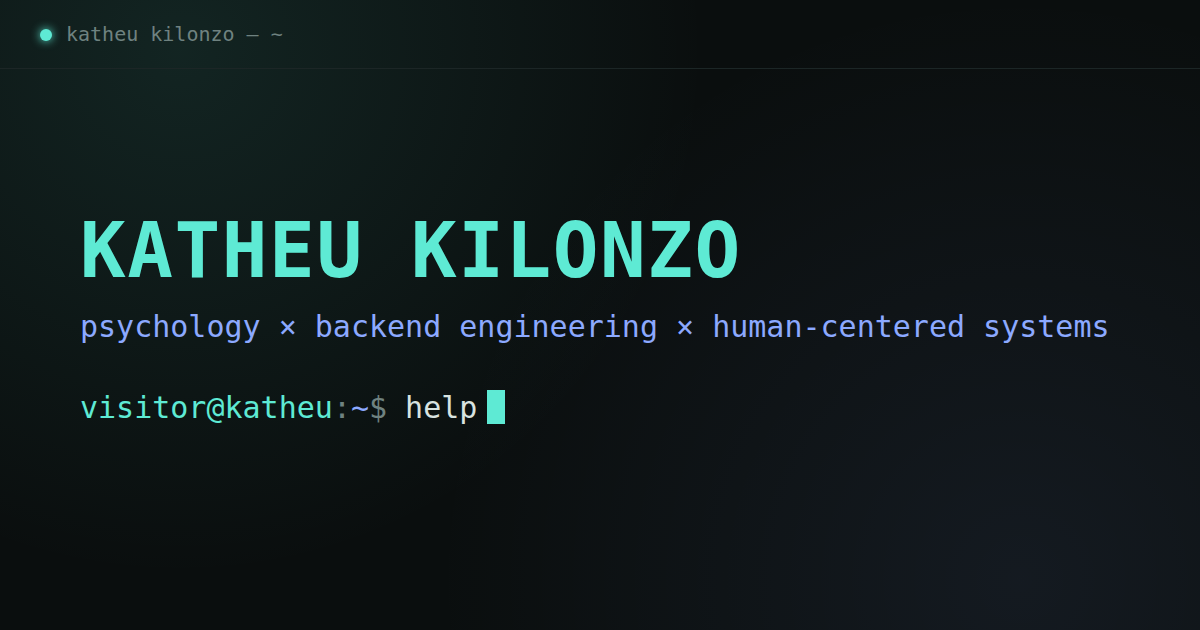
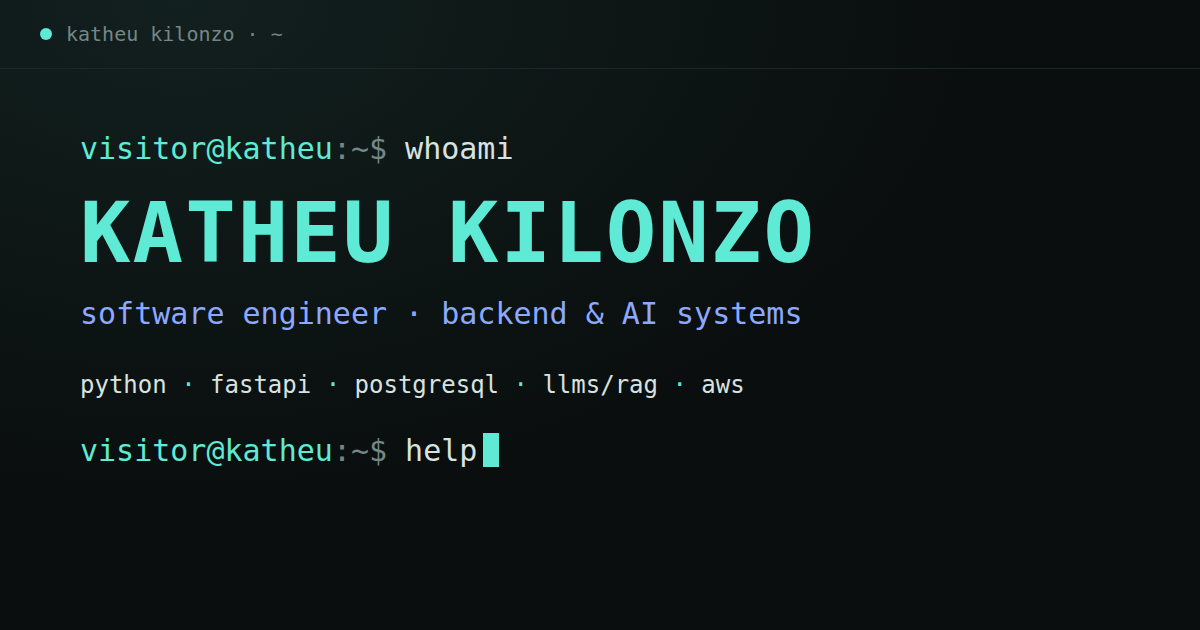
Redraw the link preview image as a whoami session with the LinkedIn role and stack
Fixes #255

diff --git a/index.html b/index.html
@@ -21,7 +21,7 @@
     <meta property="og:image:type" content="image/png" />
     <meta property="og:image:width" content="1200" />
     <meta property="og:image:height" content="630" />
-    <meta property="og:image:alt" content="Katheu Kilonzo: psychology, backend engineering and human-centered systems, shown as a terminal prompt." />
+    <meta property="og:image:alt" content="A terminal session: whoami answers Katheu Kilonzo, software engineer, backend and AI systems, with Python, FastAPI, PostgreSQL, LLMs and RAG, and AWS." />
     <meta name="twitter:card" content="summary_large_image" />
     <meta name="twitter:title" content="Katheu Kilonzo | Software Engineer, Backend &amp; AI Systems" />
     <meta
@@ -29,7 +29,7 @@
       content="Backend and AI systems in Python, FastAPI, PostgreSQL and LLMs, built by a psychology graduate who starts with people. This portfolio is a terminal: type help and poke around."
     />
     <meta name="twitter:image" content="https://kathfk1234.github.io/KathFK1234/og-image.png" />
-    <meta name="twitter:image:alt" content="Katheu Kilonzo: psychology, backend engineering and human-centered systems, shown as a terminal prompt." />
+    <meta name="twitter:image:alt" content="A terminal session: whoami answers Katheu Kilonzo, software engineer, backend and AI systems, with Python, FastAPI, PostgreSQL, LLMs and RAG, and AWS." />
     <link rel="canonical" href="https://kathfk1234.github.io/KathFK1234/" />
     <script type="application/ld+json">
       {
